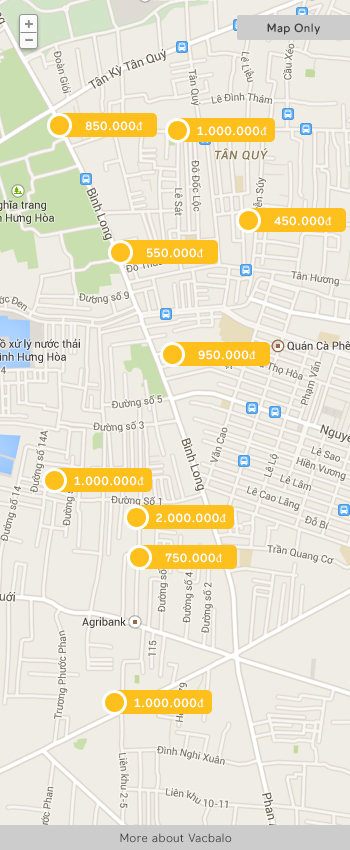
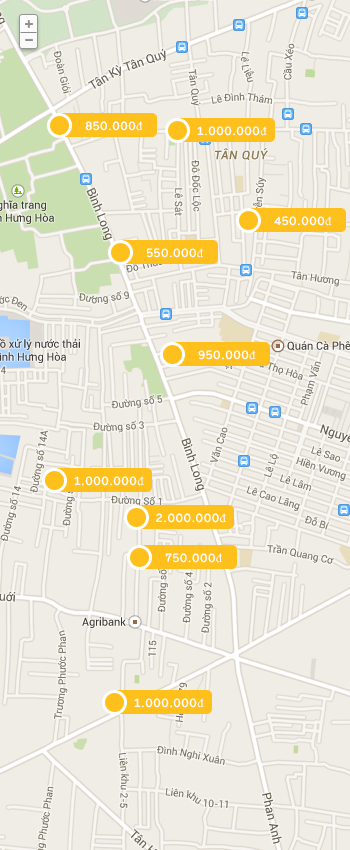
update map hostlist

Changed region(s): [[0.0, 0.9482, 1.0, 1.0], [0.6571, 0.0, 1.0, 0.0612]]

diff --git a/hostlist.html b/hostlist.html
@@ -18,11 +18,7 @@
 <link href="css/jquery-ui.css" rel="stylesheet">
 <link href="css/style.css" rel="stylesheet">
 <link href="css/popup.css" rel="stylesheet">
-  <link rel="stylesheet" href="css/main.css">
-
-
-
-
+<link rel="stylesheet" href="css/main.css">
 
 </head>
 <body class="page host-list">
@@ -335,25 +331,34 @@
         
 	         <section  class="map-hostlist-mini">
 	         <a id="nav-expander" class="nav-expander fixed">map only</a>
-				<img src="images/map-mini.jpg">
+				
+				<article class="data-map-location-mini">
+					<img src="images/map-mini.jpg">
+				</article>
+				<a href="#" class="more-about-bottom">More about Vacbalo</a>
+			
 			</section>
 			<section class="map-hostlist-full">
-			  <a href="#" id="nav-close">X</a>
-				<img src="images/map-hostlist.jpg">
+			  <a href="#" id="nav-close" class="nav-expander fixed">Show Host List + Map</a>
+				<article class="data-map-location-full">
+					<img src="images/map-hostlist.jpg">
+				</article>
+				
+				<article class="breadcrumbs col-md-8 map-bread">
+					<ol class="breadcrumb breadcrumb-left">
+						<li><a href="#">Viet Name</a></li>
+						<li class="active"><a href="#">Dat lat city</a></li>
+						<li class="breadcrumb-right result">
+								140 properties found
+						</li>
+					</ol>
+				</article>
+				<a href="#" class="more-about-bottom">More about Vacbalo</a>
 			</section>
       </article>
 
  </section>     
-<div  style="display:none" class="navbar navbar-inverse navbar-fixed-top">      
-        
-        <!--Include your brand here-->
-        <a class="navbar-brand" href="#">Off Canvas Menu</a>
-        <div class="navbar-header pull-right">
-          <a id="nav-expander" class="nav-expander fixed">
-            MENU &nbsp;<i class="fa fa-bars fa-lg white"></i>
-          </a>
-        </div>
-    </div>
+
 
 <!-- jQuery (necessary for Bootstrap's JavaScript plugins) -->
 <script src="js/jquery.min.js"></script> 

diff --git a/css/main.css b/css/main.css
@@ -9,10 +9,8 @@ a.nav-expander {
   color: #000;
   display: block;
   font-size: 12px;
-  font-weight: 400;
   text-align: center;
   margin-right: 0;
-  padding: 0px;
   right: 0;
   text-decoration: none;
   text-transform: uppercase;
@@ -20,6 +18,8 @@ a.nav-expander {
   transition: right 0.3s ease-in-out 0s;
   width: 112px;
   padding: 4px 2px;
+  border-radius: 4px 0px 0px 4px;
+  font-weight: bold;
   z-index: 12;
   transition: right 0.3s ease-in-out 0s;
   -webkit-transition: right 0.3s ease-in-out 0s;
@@ -191,31 +191,6 @@ body.nav-expanded {
    Author's custom styles
    ========================================================================== */
 
-a.nav-expander {
-  background: none repeat scroll 0 0 #BEBDBD;
-  color: #000;
-  display: block;
-  font-size: 12px;
-  font-weight: 400;
-  text-align: center;
-  margin-right: 0;
-  padding: 0px;
-  right: 0;
-  text-decoration: none;
-  text-transform: uppercase;
-  top: 74px;
-  transition: right 0.3s ease-in-out 0s;
-  width: 112px;
-  padding: 4px 2px;
-  z-index: 12;
-  transition: right 0.3s ease-in-out 0s;
-  -webkit-transition: right 0.3s ease-in-out 0s;
-  -moz-transition: right 0.3s ease-in-out 0s;
-  -o-transition: right 0.3s ease-in-out 0s;
-
-
-}
-
 a.nav-expanded-fitter:hover {
   cursor: pointer;
 }
@@ -274,7 +249,28 @@ body.nav-expanded-fitter {
 .nav-expanded-fitter #show-list{
   left: -67px;
 }
+.more-about-bottom{
+display: block;
+  width: 350px;
+  position: fixed;
+  right: 0px;
+  bottom: 0px;
+  text-align: center;
+  background: #cccccc;
+  font-size: 13px;
+  padding: 3px 0px;
+}
+#nav-close{
 
+  width: 200px;
+  font-size: 12px;
+  text-align: center;
+  text-transform: none;
+  color: #3e3e3e;
+    top: 13px;
+    font-weight: bold;
+
+}
 
 
 

diff --git a/home.html b/home.html
@@ -447,7 +447,7 @@
 		<article class="left-popup">
 			<h3 class="status-info">Log in with your email</h3>
 			<input class="btn-cus-login" type="text" placeholder="email address">
-			<input class="btn-cus-login" type="text" placeholder="password">
+			<input class="btn-cus-login" type="password" placeholder="password">
 			<a  class="btn-cus-login bg_yellow" href="#">Log in</a>
 		</article>
 		<article class="right-popup">
@@ -479,7 +479,7 @@
 			<input class="btn-cus-login" type="text" placeholder="first name">
 			<input class="btn-cus-login" type="text" placeholder="last name">
 			<input class="btn-cus-login" type="text" placeholder="email address">
-			<input class="btn-cus-login" type="text" placeholder="password">
+			<input class="btn-cus-login" type="password" placeholder="password">
 			<a  class="btn-cus-login bg_yellow" href="#">Sign up</a>
 			<span>By creating an account you confirm that
 				you accept the <span>Term of Service</span></span>		

diff --git a/css/style.css b/css/style.css
@@ -986,3 +986,14 @@ min-height: 40px
   text-align: right;
   margin-right: 0px;
 }
+.breadcrumbs.map-bread{
+    width: 100%;
+  padding: 5px 10px;
+  font-size: 12px;
+  position: fixed;
+  bottom: -22px;
+  padding-right: 455px;
+}
+.breadcrumbs.map-bread,.breadcrumbs.map-bread a{
+  color: #9a9999
+}
